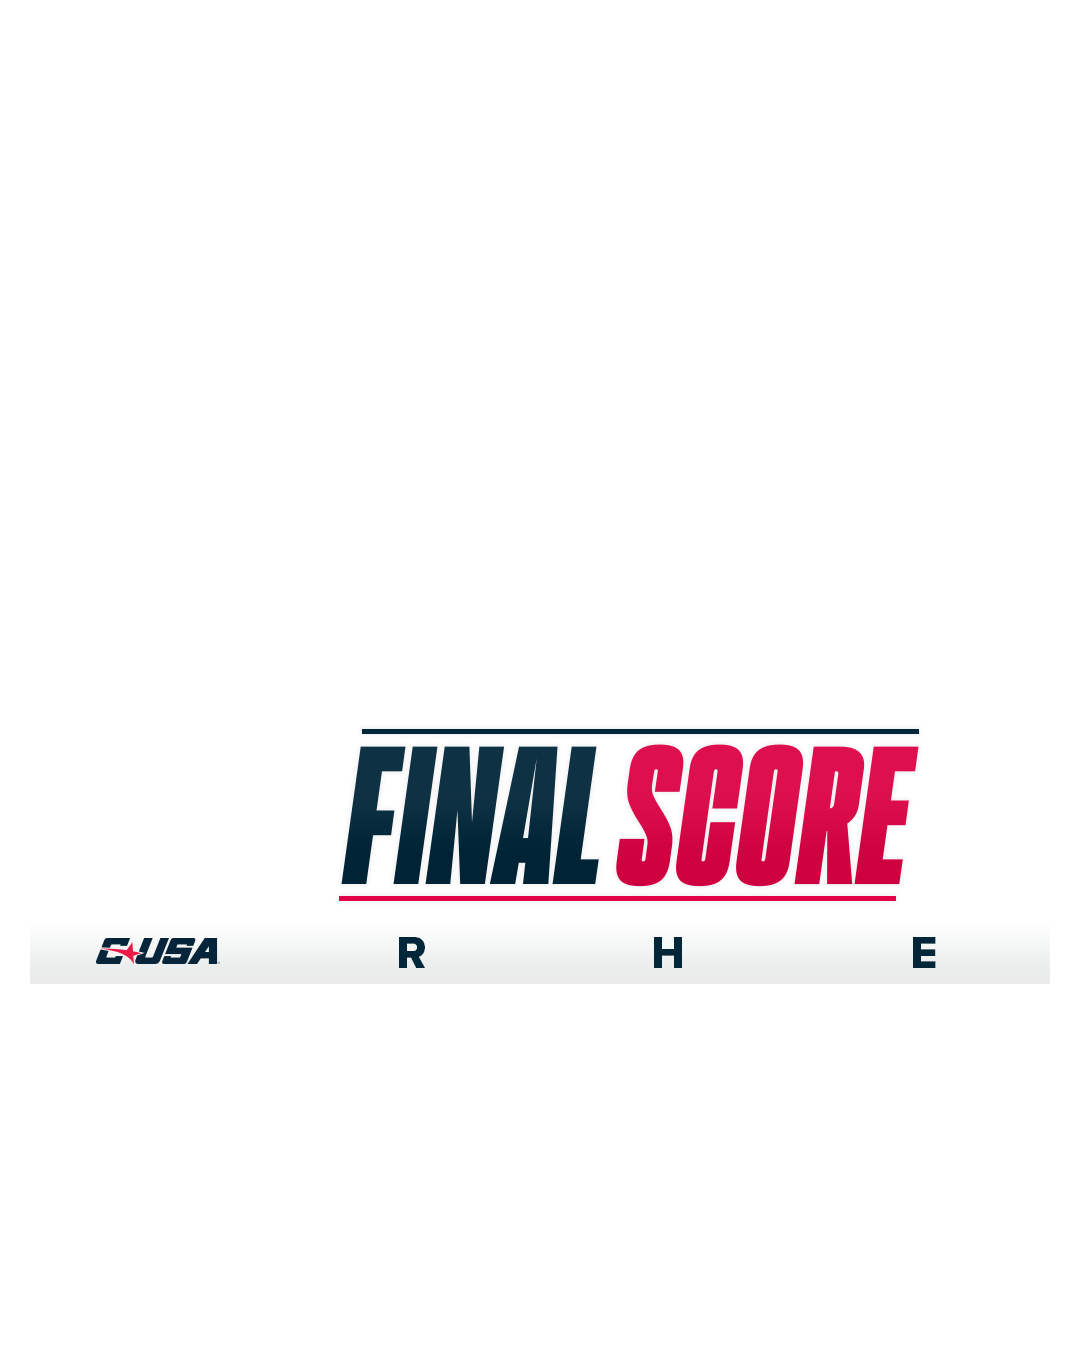
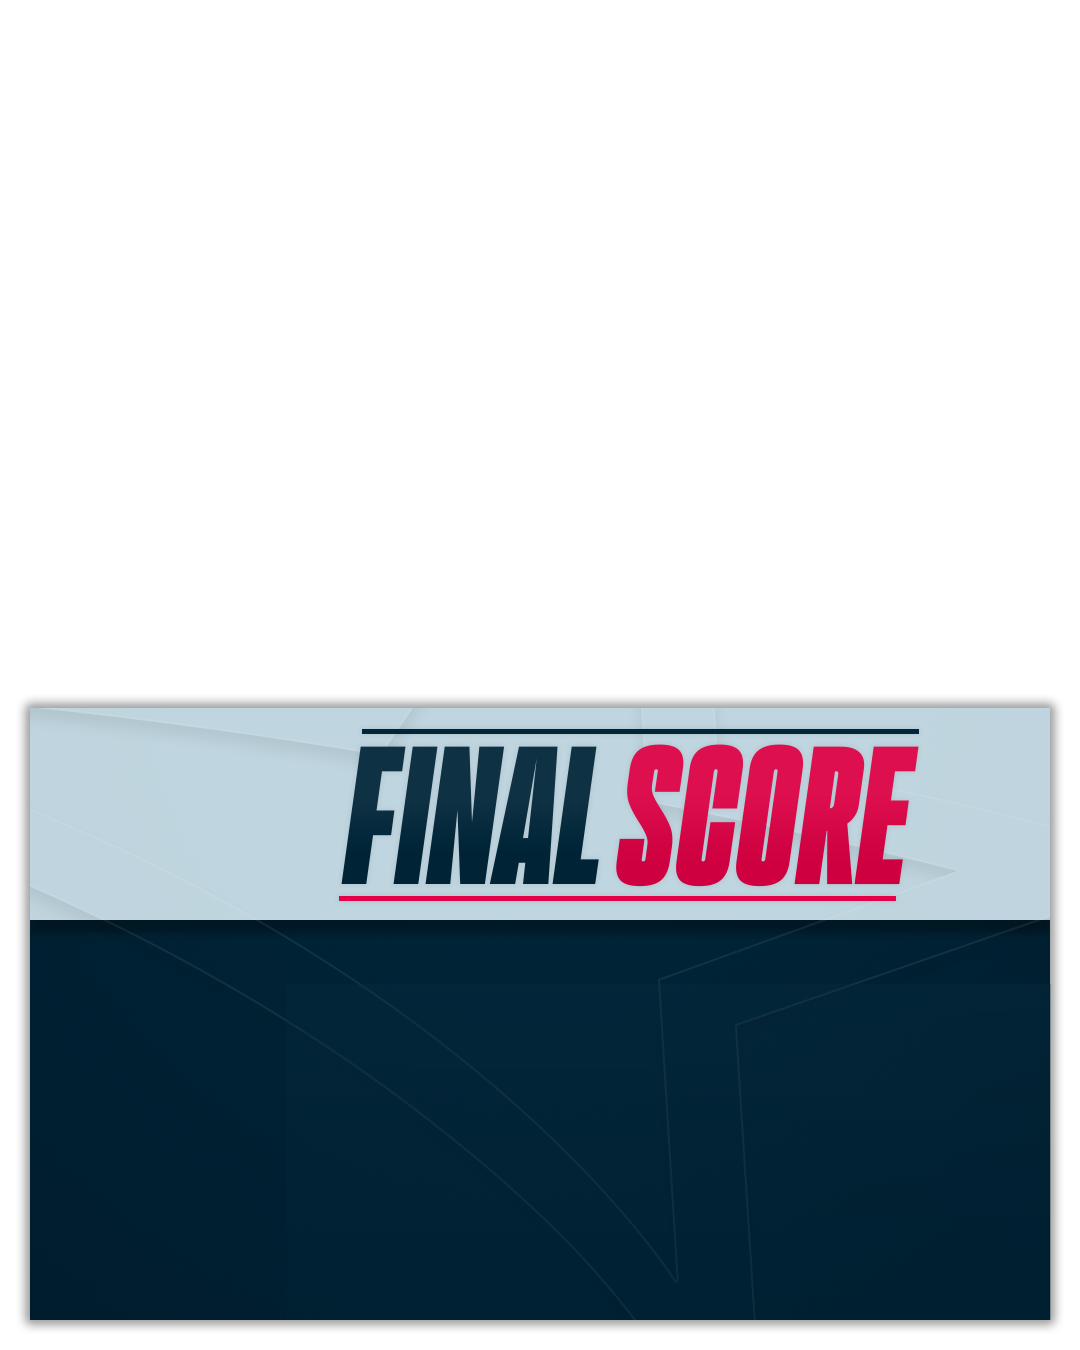
feat(championship): add Score Boxes layer + Final Score v5 overlay
Splits the C-USA / R-H-E label strip + per-row tinted score cells out of the Final Score overlay into a new Score Boxes layer. Draw order is now BG → photo → cusaWatermark → Score Overlay (banner + navy substrate) → team logos → Score Boxes → seed boxes → text → championship logo. R/H/E values render in white on the navy substrate; seed numbers stay navy on the light gray seed boxes.

diff --git a/championship.html b/championship.html
@@ -283,6 +283,7 @@ const LAYERS = {
   bg:                ASSET_DIR + '26 SB Final Score - BG.png',
   cusaWatermark:     ASSET_DIR + '26 SB Final Score - CUSA Logo Overlay.png',
   scoreOverlay:      ASSET_DIR + '26 SB Final Score - Score Overlay.png',
+  scoreBoxes:        ASSET_DIR + '26 SB Final Score - Score Boxes.png',
   seedsBoxes:        ASSET_DIR + '26 SB Final Score - Seeds Boxes.png',
   championshipLogo:  ASSET_DIR + '26 SB Final Score - Championship Logo.png',
 };
@@ -529,7 +530,14 @@ async function draw(){
     try { ctx.drawImage(await ensureLayer('cusaWatermark'), 0, 0, 1080, 1350); } catch (_) {}
   }
 
-  // 4. Team logos (with per-team X/Y nudge)
+  // 4. Final Score overlay — combined FINAL SCORE banner + C-USA + R/H/E
+  //     label strip + dark navy substrate behind the team-logo / score rows.
+  //     Drawn BEFORE the team logos so the navy substrate sits behind them.
+  if (!state.hideOverlays) {
+    try { ctx.drawImage(await ensureLayer('scoreOverlay'), 0, 0, 1080, 1350); } catch (_) {}
+  }
+
+  // 5. Team logos (with per-team X/Y nudge)
   if (state.top.logoImg) {
     ctx.drawImage(state.top.logoImg,
       TEAM_LOGO.x + state.adj.topLogo.dx,
@@ -543,43 +551,30 @@ async function draw(){
       TEAM_LOGO.w, TEAM_LOGO.h);
   }
 
-  // 5. Seed Boxes (small light-gray squares to the left of each team logo)
+  // 6. Score Boxes — C-USA + R/H/E label strip plus tinted score-value cells
+  //     for each row. Sits on top of the navy substrate from the Final Score
+  //     overlay; under the seed boxes so seed numbers can be read first.
+  if (!state.hideOverlays) {
+    try { ctx.drawImage(await ensureLayer('scoreBoxes'), 0, 0, 1080, 1350); } catch (_) {}
+  }
+
+  // 7. Seed Boxes (small light-gray squares to the left of each team logo)
   if (!state.hideOverlays) {
     try { ctx.drawImage(await ensureLayer('seedsBoxes'), 0, 0, 1080, 1350); } catch (_) {}
   }
 
-  // 6. Score Overlay — combined FINAL SCORE banner + C-USA + R/H/E label strip
-  if (!state.hideOverlays) {
-    try { ctx.drawImage(await ensureLayer('scoreOverlay'), 0, 0, 1080, 1350); } catch (_) {}
-  }
-
-  // 7. Championship Logo (operator upload OR bundled NCAA default). Drawn
-  //     under the text overlays so scores stay readable even if the logo is
-  //     dragged into the score area.
-  const cl = state.champLogo;
-  const champImg = (cl && cl.img) || state.layerImgs.championshipLogo;
-  if (champImg) {
-    const w = (cl.size / 100) * 1080;
-    const ar = champImg.naturalWidth / champImg.naturalHeight;
-    const h = w / (ar || 1);
-    ctx.drawImage(champImg, cl.x - w/2, cl.y - h/2, w, h);
-  }
-
-  // ── Text overlays (drawn last so seeds + R/H/E values are always on top) ──
+  // ── 8. Text overlays — all values in white per spec. ──
   ctx.textAlign = 'center';
   ctx.textBaseline = 'middle';
 
-  // Seeds (Gazzetta Black 50pt navy)
+  // Seeds in navy so they read on the light-gray seed boxes.
   ctx.fillStyle = NAVY;
   ctx.font = SEED_FONT;
   ctx.fillText(state.top.seed || '', SEED_CX, SEED_CY.top);
   ctx.fillText(state.bot.seed || '', SEED_CX, SEED_CY.bot);
 
-  // R / H / E values (Gazzetta ExtraBold 161.59pt navy — matches the seed
-  // numbers + FINAL SCORE banner letters so they read against the light BG /
-  // overlay strip). Each row gets a shared Y nudge; each column has its own
-  // X nudge applied to both rows.
-  ctx.fillStyle = NAVY;
+  // R/H/E values in white on the navy substrate.
+  ctx.fillStyle = WHITE;
   ctx.font = SCORE_FONT;
   for (const side of ['top', 'bot']) {
     const baseCy = side === 'top' ? SEED_CY.top : SEED_CY.bot;
@@ -587,6 +582,19 @@ async function draw(){
     ctx.fillText(state[side].r || '', COLS_CX.r + state.adj.rColDx, cy);
     ctx.fillText(state[side].h || '', COLS_CX.h + state.adj.hColDx, cy);
     ctx.fillText(state[side].e || '', COLS_CX.e + state.adj.eColDx, cy);
+  }
+
+  // 8. Championship Logo (operator upload OR bundled NCAA default) — drawn
+  //     last per spec so it sits on top of the score area when positioned
+  //     there. Operator can use the X/Y/Size sliders to move it clear of
+  //     the scores if needed.
+  const cl = state.champLogo;
+  const champImg = (cl && cl.img) || state.layerImgs.championshipLogo;
+  if (champImg) {
+    const w = (cl.size / 100) * 1080;
+    const ar = champImg.naturalWidth / champImg.naturalHeight;
+    const h = w / (ar || 1);
+    ctx.drawImage(champImg, cl.x - w/2, cl.y - h/2, w, h);
   }
 }
 
@@ -857,6 +865,7 @@ document.getElementById('download').addEventListener('click', () => {
     ensureLayer('bg').catch(()=>null),
     ensureLayer('cusaWatermark').catch(()=>null),
     ensureLayer('scoreOverlay').catch(()=>null),
+    ensureLayer('scoreBoxes').catch(()=>null),
     ensureLayer('seedsBoxes').catch(()=>null),
     ensureLayer('championshipLogo').catch(()=>null),
     ensureSchoolLogo('top'),
